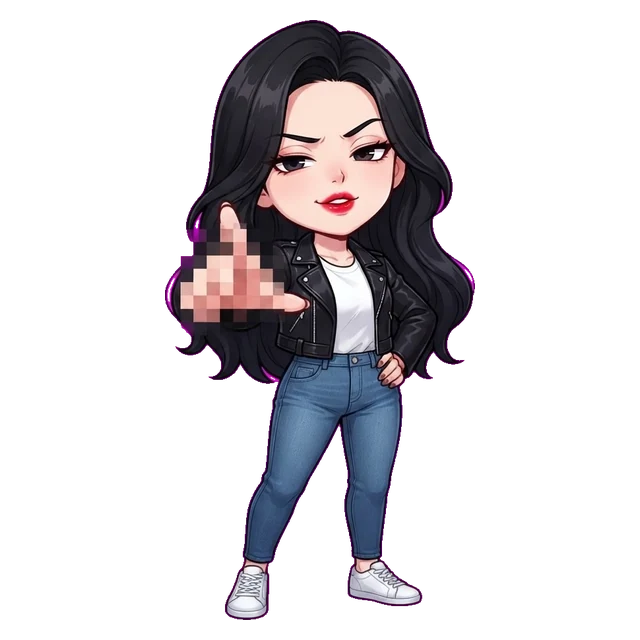
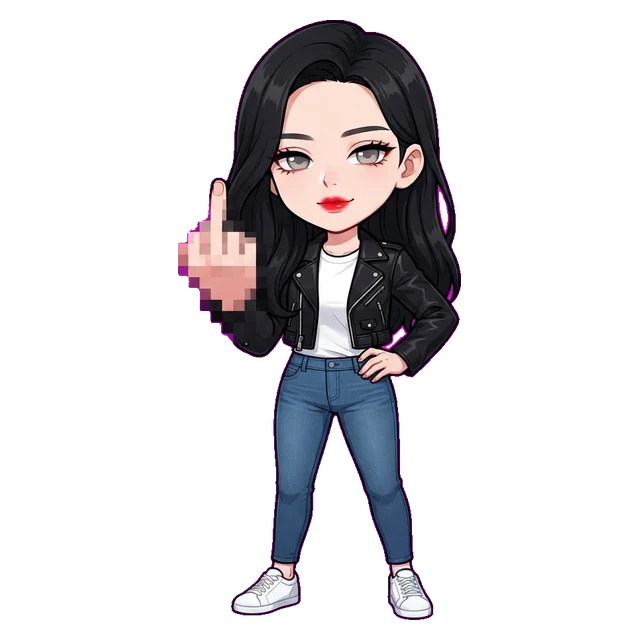
랑방: 덱 그림 안 뜨던 버그(김도훈·이호찬·건전녀·홍정민), 아이콘 24종 적용, 여지원 새 그림·도감 일러스트, 여지원·정원식 소개 문구

Changed region(s): [[0.25, 0.0312, 0.75, 0.9688]]

diff --git a/public/langbang/game.js b/public/langbang/game.js
@@ -560,10 +560,11 @@ function handleEvents(g, loud) {
         if (e.v) fx.text(e.x + 18, e.y - 22, `+${e.v}`, '#7be38f', 12, 0.8);
         if (loud) A.sfx.heal();
         break;
-      case 'jyDown': fx.text(e.x, e.y - 60, '준영 퇴장… 올인!', '#9fd4ff', 13, 1.0); break;
+      case 'jyLeave': fx.burst(e.x, e.y - 30, 14, '#ffffff', 120, 'puff', 10, 0.6); fx.text(e.x, e.y - 70, '들어갈게~', '#9fd4ff', 13, 1.0); break;
+      case 'allinCall': fx.banner('🃏 올인 콜! 준영 등판', `${e.sec}초 동안 진상을 한곳으로 모은다`, '#1a4a8a', 1.3, 'wave'); break;
       case 'jyRage': fx.text(e.x, e.y - 70, '🔥 준영 폭주!', '#ff7a4f', 15, 1.0); fx.ring(e.x, e.y - 30, 10, 60, 0.6, '#ff7a4f', 4); break;
       case 'chipRain': if (!busy) fx.burst(e.x, e.y - 20, 5, '#ffd23f', 110, 'spark', 3, 0.35); break;
-      case 'summon': fx.banner(e.again ? '📣 준영아 다시 나와!' : '📣 준영아 나와!', '정소영 잔소리 게이지 가득 → 성준영이 걸어 나간다', '#b0306a', 1.2, 'wave'); fx.text(e.x, e.y - 70, '준영아 나와!', '#ffb8d0', 15, 1.1); fx.burst(e.x, e.y - 30, 16, '#9fd4ff', 160, 'spark', 4, 0.6); fx.ring(e.x, e.y - 30, 10, 60, 0.7, '#ff9fc0', 5); if (loud) A.sfx.join(); break;
+      case 'summon': fx.text(e.x, e.y - 80, '준영아 나와!', '#ff9fc0', 15, 1.1); fx.text(e.x, e.y - 70, '준영아 나와!', '#ffb8d0', 15, 1.1); fx.burst(e.x, e.y - 30, 16, '#9fd4ff', 160, 'spark', 4, 0.6); fx.ring(e.x, e.y - 30, 10, 60, 0.7, '#ff9fc0', 5); if (loud) A.sfx.join(); break;
       case 'allin': fx.text(e.x, e.y - 20, '올인!', '#ffd23f', 20, 1.0); fx.blast(e.x, e.y, e.r, 'gold'); fx.addShake(5); if (loud) A.sfx.explode(); break;
       case 'nagbomb': fx.text(e.x, e.y - 20, '잔소리 폭격!', '#ff9fc0', 16, 0.9); fx.blast(e.x, e.y, e.r, 'heart'); if (loud) A.sfx.explode(); break;
       case 'timestop': fx.text(e.x, e.y - 30, '…시간아 멈춰라', '#c9a8ff', 16, 1.2); fx.ring(e.x, e.y, 10, e.r, 0.7, '#b48cff', 4); fx.flash('#6a3cff', 0.18); if (loud) A.sfx.charm(); break;
@@ -1606,7 +1607,7 @@ const coinsPill = () => `<span class="coins-pill"><i class="ci"></i>${P().unlimi
 const uid = () => API.liveUid();
 // ─── 그린 UI 아이콘 (ui2/<이름>.webp) · 없으면 이모지 그대로 ─────
 // ic(): 직접 넣을 때 · iconize(): 화면에 붙는 글자 속 이모지를 자동으로 그림으로 (속성·장비 아이콘 · 채팅 · 입력칸은 제외)
-const IC_MAP = { '👑': 'crown', '⚔': 'swords', '⚔': 'swords', '🎟': 'ticket', '🎟': 'ticket', '⏳': 'hourglass', '⌛': 'hourglass', '🔒': 'lock', '🔓': 'unlock', '🔥': 'fire', '🏆': 'trophy', '💎': 'gem', '🪨': 'gem', '📅': 'calendar', '📆': 'calendar', '🐉': 'dragon', '🎁': 'gift', '💡': 'bulb', '🎒': 'bag', '♾': 'infinity', '♾': 'infinity', '🥇': 'medal1', '🥈': 'medal2', '🥉': 'medal3', '📣': 'megaphone', '📢': 'megaphone', '⚡': 'bolt', '🗡': 'dagger', '🗡': 'dagger', '🗺': 'map', '🗺': 'map', '📤': 'share', '🛠': 'tools', '🛠': 'tools', '🏷': 'tag', '🏷': 'tag', '🏠': 'home', '💥': 'boom', '🎯': 'target', '✨': 'sparkle', '🧹': 'broom', '⚗': 'flask', '⚗': 'flask', '📖': 'book', '📚': 'book', '🚪': 'door', '🛒': 'cart', '💍': 'ring', '🖼': 'frame', '🖼': 'frame', '🛡': 'shield', '🛡': 'shield', '🔮': 'orb' };
+const IC_MAP = { '👑': 'crown', '⚔': 'swords', '⚔': 'swords', '🎟': 'ticket', '🎟': 'ticket', '⏳': 'hourglass', '⌛': 'hourglass', '🔒': 'lock', '🔓': 'unlock', '🔥': 'fire', '🏆': 'trophy', '💎': 'gem', '🪨': 'gem', '📅': 'calendar', '📆': 'calendar', '🐉': 'dragon', '🎁': 'gift', '💡': 'bulb', '🎒': 'bag', '♾': 'infinity', '♾': 'infinity', '🥇': 'medal1', '🥈': 'medal2', '🥉': 'medal3', '📣': 'megaphone', '📢': 'megaphone', '⚡': 'bolt', '🗡': 'dagger', '🗡': 'dagger', '🗺': 'map', '🗺': 'map', '📤': 'share', '🛠': 'tools', '🛠': 'tools', '🏷': 'tag', '🏷': 'tag', '🏠': 'home', '💥': 'boom', '🎯': 'target', '✨': 'sparkle', '🧹': 'broom', '⚗': 'flask', '⚗': 'flask', '📖': 'book', '📚': 'book', '🚪': 'door', '🛒': 'cart', '💍': 'ring', '🖼': 'frame', '🖼': 'frame', '🛡': 'shield', '🛡': 'shield', '🔮': 'orb', '🔁': 'retry', '🔊': 'sound', '🔇': 'mute', '👆': 'tap', '✅': 'check', '⚙': 'gear_set', '⚙': 'gear_set', '🩹': 'heal', '🌊': 'wave', '🎰': 'gacha', '📍': 'pin', '🔨': 'hammer', '👥': 'duo', '📜': 'scroll', '📮': 'mail', '📊': 'chart', '⏰': 'clock', '🧪': 'flask2', '🎉': 'party', '🔑': 'key', '🤖': 'bot', '⚖': 'scale', '⚖': 'scale', '🎫': 'coupon', '⏱': 'speed', '⏱': 'speed', '🛍': 'shop', '🛍': 'shop' };
 const IC_RE = new RegExp(Object.keys(IC_MAP).sort((a, b) => b.length - a.length).join('|'), 'gu'); // (이모지엔 정규식 특수문자가 없다)
 const icBad = new Set();
 const ic = (name, emoji = '', size = '') => `<img class="ic${size ? ' ' + size : ''}" src="/img/lb/ui2/${name}.webp" alt="${emoji}" draggable="false" onerror="this.replaceWith(document.createTextNode(this.alt))">`;
@@ -2213,7 +2214,7 @@ function artCard(id, o = {}) {
   const duo = hasDuo(id) && ok;
   const art = !src && !fall ? `<span class="dx-emo">${d.emoji}</span>`
     : duo ? `<span class="ac-duo" style="background-image:url('${thumbSrc(id, true)}')"></span><span class="ac-duo b" style="background-image:url('${thumbSrc(id, true)}')"></span>`
-      : `<img src="${src || fall}" alt="" loading="lazy" decoding="async" draggable="false" style="width:${(z * 100).toFixed(0)}%;left:${left.toFixed(1)}%;top:${top.toFixed(1)}%" onerror="this.onerror=null;this.src='${fall}'">`;
+      : `<img src="${src || fall}" alt="" decoding="async" draggable="false" style="width:${(z * 100).toFixed(0)}%;left:${left.toFixed(1)}%;top:${top.toFixed(1)}%" onerror="this.onerror=null;this.src='${fall}'">`;
   const pr = !ok && (GACHA_HEROES.includes(id) || LEGEND_HEROES.includes(id)) ? L.cardProgress(p, id) : null;
   const sub = ok ? `${'★'.repeat(st)}${lv ? ` · +${lv}` : ''}` : pr ? `카드 ${pr[0]}/${pr[1]}` : HERO_UNLOCK[id] ? `${stageLabel(HERO_UNLOCK[id])} 클리어` : '모집';
   return `<button class="acard t${t} ${ok ? '' : 'locked'} ${o.on ? 'on' : ''} ${o.cls || ''}" data-act="${o.act || 'heroCard'}" data-id="${id}" style="--c:${ATTRS[d.attr].color}">

diff --git a/public/langbang/data.js b/public/langbang/data.js
@@ -543,7 +543,7 @@ export function recommendAttrs(s) {
 const ART_READY = new Set(['h_jungmin', 'h_junyoung', 'h_soyoung', 'h_jieun', 'h_jieun_demon', 'h_sanghwa']);
 const ART = (n) => (ART_READY.has(n) ? `/img/lb/${n}.webp` : '');
 export const NO_DEX_ART = new Set([]); // dex/<id>.webp 없음
-export const NO_HQ_ART = new Set(['junyoung', 'jiwon', 'wonsik']); // dexhq/<id>.webp 없음
+export const NO_HQ_ART = new Set(['junyoung', 'wonsik']); // 원식 고화질 그림이 오면 빼기 // dexhq/<id>.webp 없음
 export const NO_DUO_ART = new Set([]); // dexhq/<id>_duo.webp 없음
 export const HEROES = {
   bangjang: {
@@ -728,7 +728,7 @@ export const HEROES = {
     attack: '잔소리 말풍선 — 맞힐 때마다 "잔소리 게이지"가 차고, 가득 차면 성준영을 불러낸다',
     desc: '"그러니까 내가 뭐랬어!" 잔소리가 쌓이면 어디선가 성준영이 끌려 나온다. 둘이 같이 있으면 진상들이 더 괴롭다.',
     perks: { 3: '게이지가 더 빨리 · 성준영이 더 오래', 5: '성준영 올인! 폭발이 더 커진다' },
-    skill: { id: 'nagbomb', name: '잔소리 폭격', cd: 21, desc: '찍은 곳에 잔소리 폭탄 (느려짐) + 잔소리 게이지 가득', target: true, r: [95, 95, 110, 110, 125], mul: 3.2 },
+    skill: { id: 'allincall', name: '올인 콜! 준영 등판', cd: 21, desc: '성준영이 나와서 정해진 시간 동안 칩·카드를 던진다 — 맞은 진상은 한곳으로 끌려와 뭉친다 (범위 공격 멤버와 찰떡)', sec: [8, 8, 9, 9, 10] },
     shouts: ['그러니까 내가 뭐랬어!', '준영아 나와!', '한 번만 더 말한다?'],
   },
   jieun: {
@@ -771,7 +771,7 @@ export const HEROES = {
     dmg: 31, interval: 0.83, range: 365, proj: 'mosaic', projSpeed: 560,
     shred: { per: 0.06, max: 5, sec: 5 }, // 맞은 진상 방어 -6% × 최대 5겹 (5초) → 다른 멤버 피해도 같이 오른다 · 회복도 막는다
     attack: '모자이크 뻑큐 — 날아가는 모자이크 손, 맞은 진상 방어가 겹겹이 깎인다',
-    desc: '새빨간 입술, 긴 흑발. 말보다 손이 먼저 나간다 (모자이크 처리됨).',
+    desc: '착해 보이는 얼굴, 하지만 속엔 당찬 욕망이 가득. 오늘도 웃으며 모자이크 뻑큐를 날린다. "어머, 실수~"',
     perks: { 3: '방깎 +1겹 (최대 6)', 5: '방깎 한 겹 -8%' },
     skill: { id: 'fuckall', name: '단체 뻑큐', cd: 20, desc: '앞쪽 부채꼴에 모자이크 손 폭격 — 맞은 진상 전부 방깎 최대 · 회복 막기 6초', r: [230, 230, 250, 250, 280], half: 0.6, mul: [1.4, 1.4, 1.6, 1.6, 1.9], sec: 6 },
   },
@@ -782,7 +782,7 @@ export const HEROES = {
     taunt: 0.4, // 도발: 멤버를 노리는 진상 기술을 대신 받는다 (40% 시간)
     guard: { r: 110, cut: 0.3 }, // 곁의 진상이 입구를 칠 때 -30%
     attack: '헬스 잽 — 가까운 진상을 묵직하게 · 곁의 진상 공격을 대신 받아 준다',
-    desc: '결혼을 꿈꾸는 마흔 살 헬스 총각. 작은 눈, 단정한 머리, 따뜻한 얼굴. "올해는 꼭…"',
+    desc: '결혼을 꿈꾸는 마흔셋. 유일한 취미는 헬스. 따뜻한 마음으로 모두를 지켜 준다. "올해는 꼭…"',
     perks: { 3: '피해 감소 반경 +20%', 5: '결혼정보회사 등록이 1초 더' },
     skill: { id: 'marry', name: '결혼정보회사 등록', cd: 22, desc: '넓은 반경 진상 4초 동안 원식만 바라본다 (입구 피해 -80% · 느려짐) + 입구 보호막', r: [260, 260, 280, 280, 300], sec: [4, 4, 4, 4, 5], shield: 0.1 },
   },
@@ -792,7 +792,7 @@ export const SUMMONS = {
   junyoung: {
     id: 'junyoung', summon: true, bossKit: 1, kit: 1, name: '성준영', gender: 'm', emoji: '🃏', color: '#9fd4ff', attr: 'talk',
     img: ART('h_junyoung'), role: '소환 · 홀덤 칩과 카드 던지기',
-    dmg: 20, interval: 0.5, range: 360, proj: 'chip', projSpeed: 600,
+    dmg: 20, chipDmg: 34, interval: 0.55, range: 380, proj: 'chip', projSpeed: 600, // 칩 한 번 = 고정 피해 (강화·레벨 조금) · 끌어당기기가 본업
     allin: { r: 90, mul: 5 }, // 쓰러질 때 "올인!" 작은 폭발 (피해 = 한 발 × 5)
     attack: '홀덤 칩 · 카드 — 빠르게 휙휙 던진다. 사라질 때 "올인!"',
     desc: '비실비실해 보이지만 칩 던지는 손목은 프로. 소영이 부르면 어쩔 수 없이 나온다.',
@@ -1376,7 +1376,7 @@ export const HERO_CARDS = {
   hyungyeong: { title: '배현경: 날씬 모드 +3초', add: { diet: 3 } },
   ara: { title: '고아라: 공주로 +5초 더', add: { young: 5 } },
   hochan: { title: '이호찬: 랑방 버프 최대 +12%', add: { buff: 0.12 } },
-  soyoung: { title: '정소영: 잔소리 게이지 +30% · 성준영 +3초', add: { nag: 3 }, mul: { nagFill: 1.3 } },
+  soyoung: { title: '정소영: 성준영 +3초', add: { nag: 3 } },
   jieun: { title: '오지은: 감속 +15%p · 1초 더', add: { slowX: 0.15, slowSec: 1 } },
   sanghwa: { title: '박상화: 성장 한도 +15%', add: { growMax: 0.15 } },
   jungmin: { title: '홍정민: 수리 +40%', mul: { heal: 1.4 } },
@@ -1388,7 +1388,7 @@ export const SKILL_EVO = {
   bangjang: '집합! 두 번 외치기', staff: '레드카드 2장 발사', gunman: '난사 연장전', gunnyeo: '응급처치 + 하트 폭탄 3연발', myunghoon: '쌍욕 폭격 2회 연속',
   dohoon: '무한 앵콜 앵콜', ingyu: '할리 한 바퀴 더', donghan: '진심 빔 두 줄', youngjun: '블랙 러시 왕복', eunok: '원샷 두 잔',
   hanna: '하트 레이저 풀파워 (화면 끝까지 꿰뚫는 굵은 빔)', sunggu: '지팡이 블랙홀 두 개', junseo: '소개팅 2차', hyungyeong: '다이어트 주사 + 충격파', ara: '공주의 일격 2연타', hochan: '랑방을 위하여!! 앵콜',
-  soyoung: '잔소리 폭격 2연발', jieun: '시간 정지 두 번', sanghwa: '끝내주는남자 박상화!!', jungmin: '붕대 대공사 한 번 더', jiwon: '단체 뻑큐 앵콜', wonsik: '결혼정보회사 VIP 등록',
+  soyoung: '올인 콜 앵콜 (준영 더 오래)', jieun: '시간 정지 두 번', sanghwa: '끝내주는남자 박상화!!', jungmin: '붕대 대공사 한 번 더', jiwon: '단체 뻑큐 앵콜', wonsik: '결혼정보회사 VIP 등록',
 };
 // 숨은 카드 (드물게): 임시 증원 · 게스트 합류 — 한 판에 한 번
 export const SECRET = { tempSlot: 0.045, guest: 0.035 };
